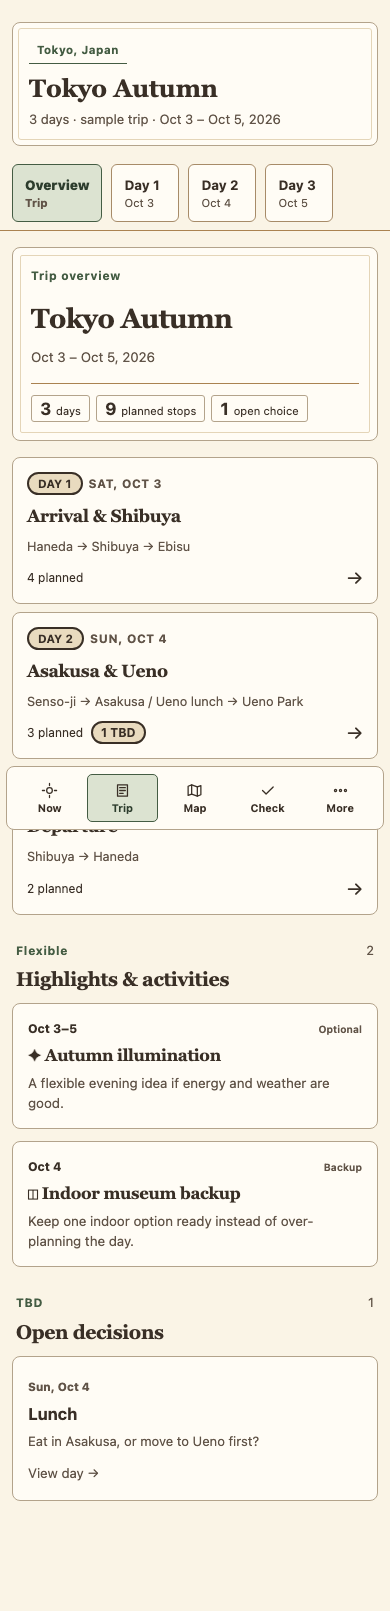
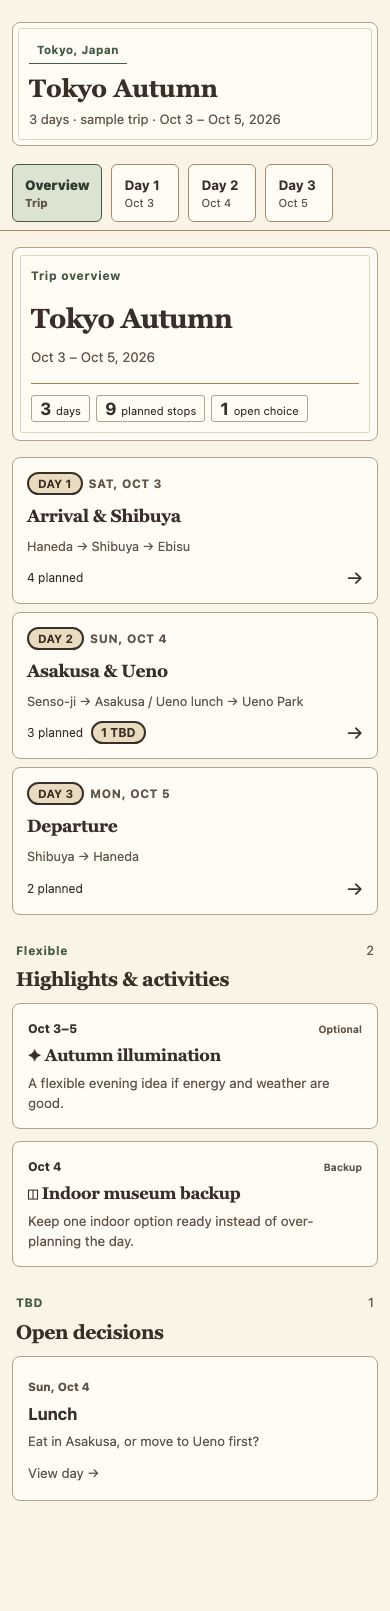
test(style): prove pinned five-tab navigation and correct full-page captures

diff --git a/docs/QA_BOTTOM_NAV_2026-10-17.md b/docs/QA_BOTTOM_NAV_2026-10-17.md
@@ -1,0 +1,29 @@
+# Pinned Five-Tab Navigation — Screenshot and Behavior Audit
+
+Date: 2026-10-17. Scope: Travel-lite-Template Vintage Watercolor versus Editorial, published GitHub Pages and local tests.
+
+## Why previous screenshots looked wrong
+
+The Gallery used Playwright full-page screenshots. Stitched full-document screenshots draw fixed-position UI at its first viewport location while the rest of the document continues below it. This places the Now / Trip / Map / Check / More bar partway through a long image. It is a screenshot artifact, not proof that the production bar lost its fixed positioning.
+
+## Live measurements
+
+Actual published GitHub Pages was inspected with screenshots and computed DOM geometry before and after scrolling:
+
+- Phone dimensions 320x568, 360x800, 390x844, 430x932: computed nav position fixed; bottom gap 14px before and after scrolling, with five visible buttons in both Editorial and Vintage.
+- Landscape 844x390: same fixed positioning.
+- Desktop 1100x900: computed position relative inside the desktop responsive shell header-adjacent row, intentionally not pinned to the bottom.
+- No page JS errors in the observed runs.
+
+## Screenshot QA correction (no production navigation change)
+
+- Mobile long-page captures of Vintage Before/After/Day hide only the nav during the screenshot, using screenshot-only CSS visibility override, so the bar does not misleadingly appear mid-document.
+- Separate viewport-only captures explicitly show the pinned bar: style-packs/previews/vintage-watercolor-bottom-nav-viewport.png and vintage-watercolor-bottom-nav-scrolled-viewport.png.
+- The historical Before screenshot was recaptured from commit f12e937 with the same correction, preserving like-for-like art-direction comparison.
+- No production CSS or JS, click behavior, tab order, trip.json, or navigation state is modified.
+
+## Test contract
+
+The new tests/bottom-nav-fixed.spec.mjs tests Editorial and Vintage at five viewport sizes, all five buttons and their hit areas, fixed bottom gap during scrolling, navigation among all five views, and the intentional wide-desktop header placement.
+
+A real mobile-device displacement may still occur under a browser-specific viewport configuration not reproduced by Chromium emulation. In that case request a screenshot, the phone and browser/PWA mode, and scroll state; do not infer a CSS regression from a stitched screenshot alone.

diff --git a/style-packs/README.md b/style-packs/README.md
@@ -156,3 +156,5 @@ Run `node --test tests/vintage-pack.test.mjs`, then run the existing browser sui
 ### Vintage Watercolor visual evidence (same Tokyo trip, no invented travel facts)
 
 [Before framing, 390px](./previews/vintage-watercolor-before-frame-mobile.png) · [**After framing, 390px**](./previews/vintage-watercolor-overview-mobile.png) · [Framed 390px Day](./previews/vintage-watercolor-day-mobile.png) · [Framed 1100px Overview](./previews/vintage-watercolor-overview-desktop.png) · [Framed 1100px Day](./previews/vintage-watercolor-day-desktop.png) · [**A5 framed cover**](./previews/vintage-watercolor-a5-cover.png) · [A5 framed day](./previews/vintage-watercolor-a5-day.png) · [A5 framed dense-page](./previews/vintage-watercolor-a5-dense.png).
+
+**Fixed bottom navigation screenshot convention:** the long 390px Before/After/Day screenshots temporarily hide the pinned five-tab bar **only during full-page capture**; otherwise a `position: fixed` bar appears partway down the stitched image, incorrectly suggesting the navigation moved into the content. It remains visible and fixed in the live app. [Actual 390px viewport with fixed five tabs](./previews/vintage-watercolor-bottom-nav-viewport.png) · [Same viewport after scrolling to page end](./previews/vintage-watercolor-bottom-nav-scrolled-viewport.png). At wide desktop sizes, Travel Lite intentionally displays the five destinations in a header-adjacent row instead of a bottom-fixed bar.
